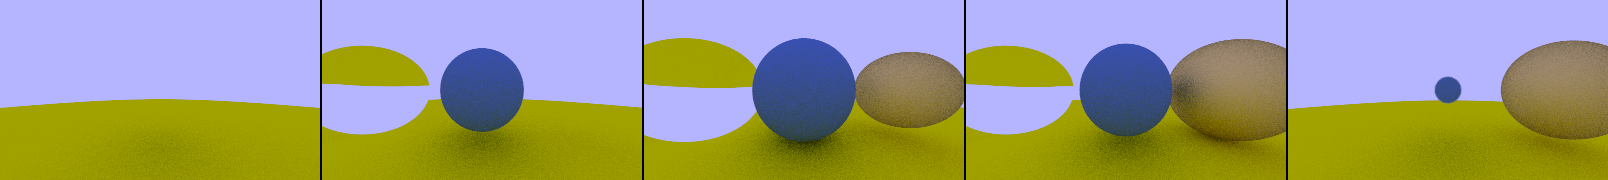
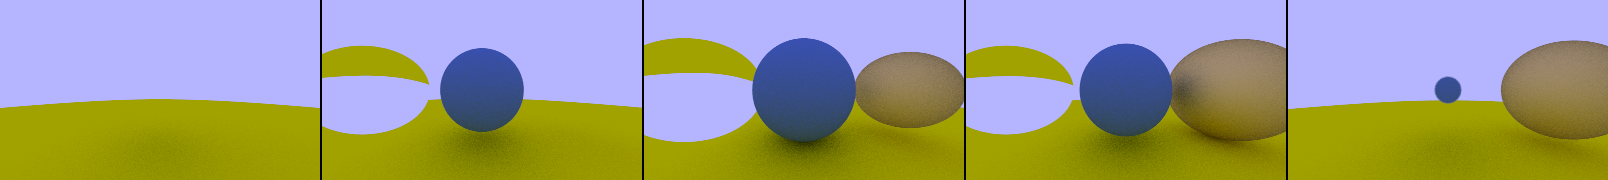
Through Book 1, Chapter 11, Section 3

diff --git a/README.md b/README.md
@@ -289,3 +289,19 @@ sphere is very small compared to the shadow the sphere is casting as in the righ
 frame here.
 
 Note: this requires `vB1C11S2`.
+
+### 1.11.2: Book 1, Chapter 11, Section 3: Total Internal Reflection
+
+This image contains a large yellow sphere for the ground (which ends up looking
+green because of the color of the sky); a small, diffuse blue sphere centered in the
+view (except offset slightly in the w-direction); a fuzzily mirrored sphere on the
+right, and a refracting sphere on the left. The refracting sphere has an index of
+refraction less than that of the air and so is mostly reflecting.
+
+![Image cube](./images/B1C11-17image.png)
+
+You can generate this image with the following function:
+
+    (weekend-raytracer/examples:b1c11-17image samples-per-pixel &optional verticalp)
+
+Note: this requires `vB1C11S3`.
